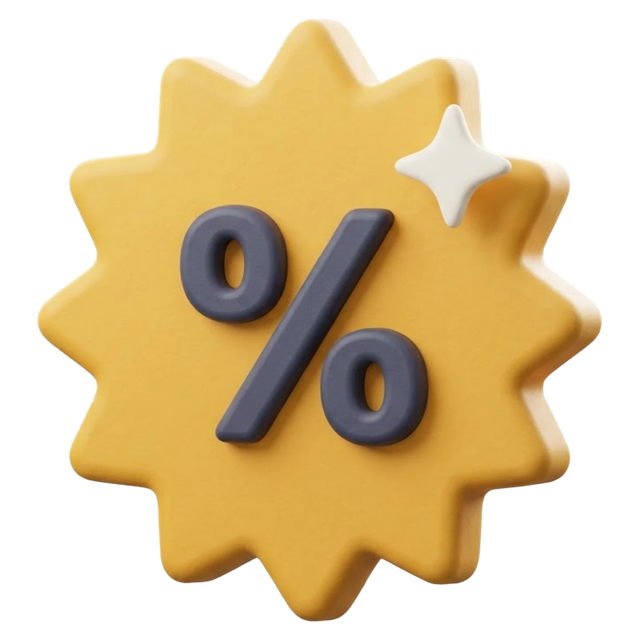
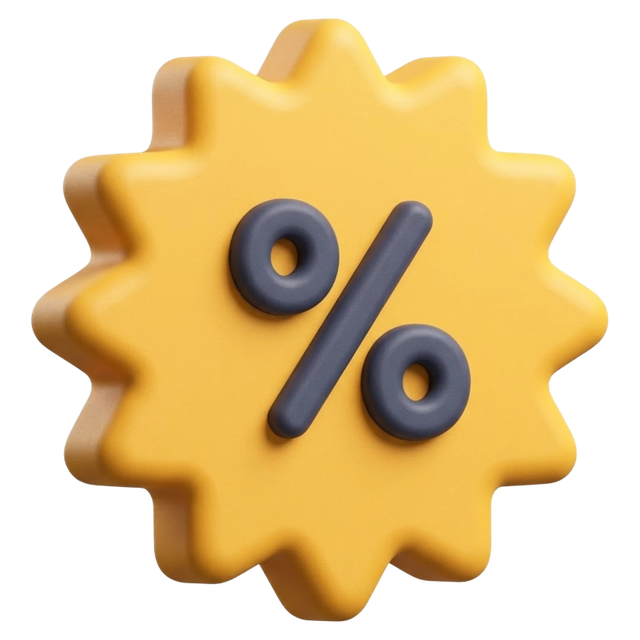
Clay v2: new exit-offer badge

diff --git a/docs/CLAY-PROMPTS-V2.md b/docs/CLAY-PROMPTS-V2.md
@@ -98,7 +98,7 @@ off-white = paper, neutral parts.
 > Subject: a wide rounded open box, lid tipped back, filled with thick round coins; three coins stand up at the front, fanned so each raised ₹ symbol faces forward. Off-white box (#F4F1EC), gold coins (#FFC94D), white ₹ symbols, a coral ribbon band (#F06A6F) around the box.
 
 **exit-offer** (Extra 10% off)
-> ✅ Installed (2026-10-30). Rendered gold came out mustard (#E2B553); if regenerated, ask for "bright warm gold, not mustard".
+> ✅ Replaced (2026-10-30, v2): thicker starburst, slate %, no sparkle. Supplied by the user.
 >
 > Subject: a thick rounded twelve-point starburst badge with short, soft points, tilted, with a raised % symbol in the centre. Bright warm gold body (#FFC94D, not mustard), dark slate % symbol, a small off-white four-point sparkle floating just in front of its top-right.
 
